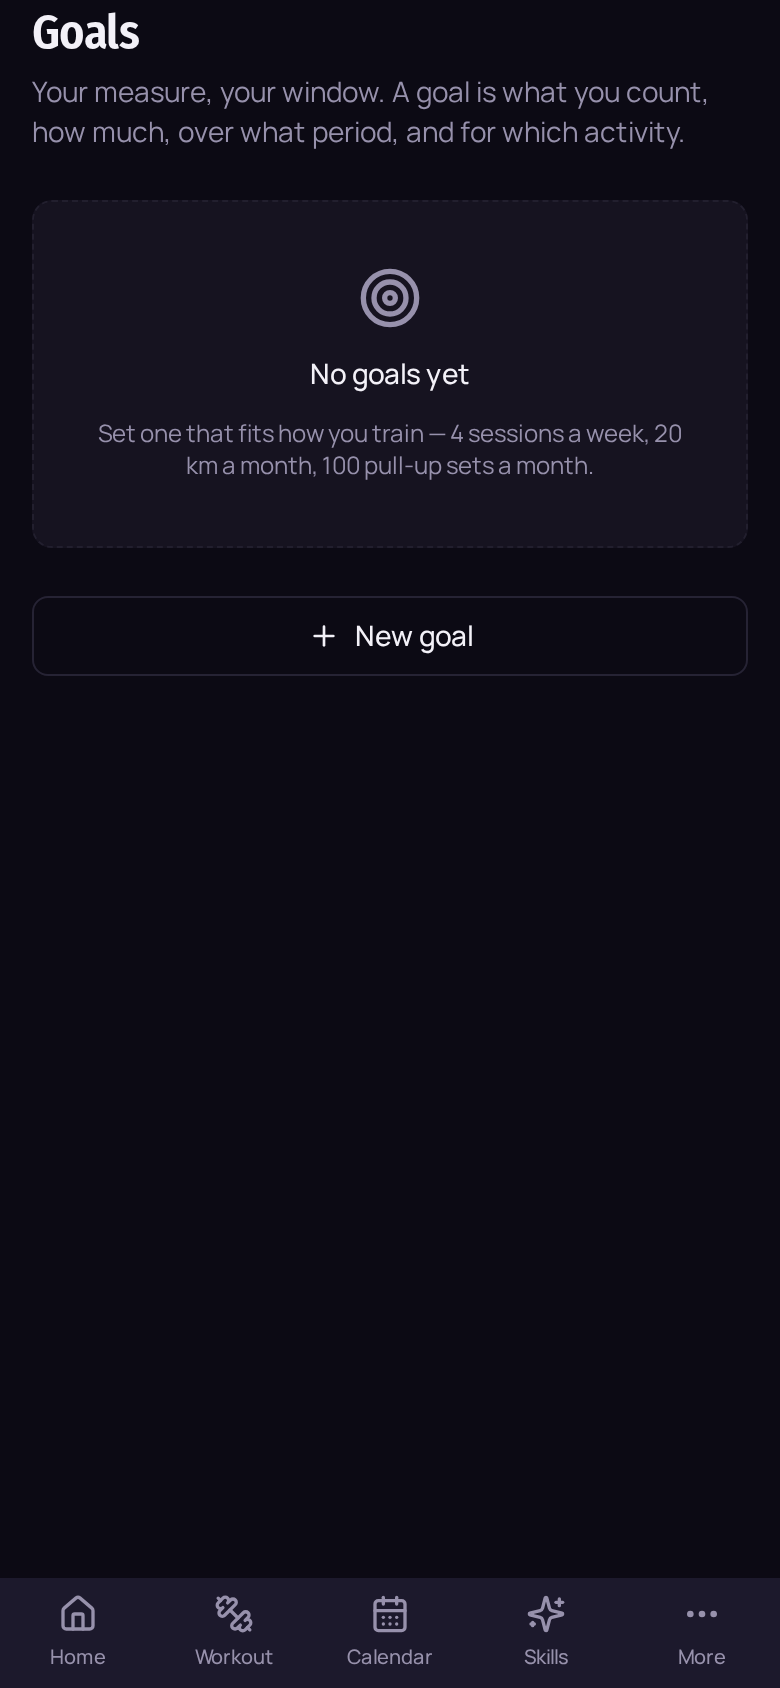
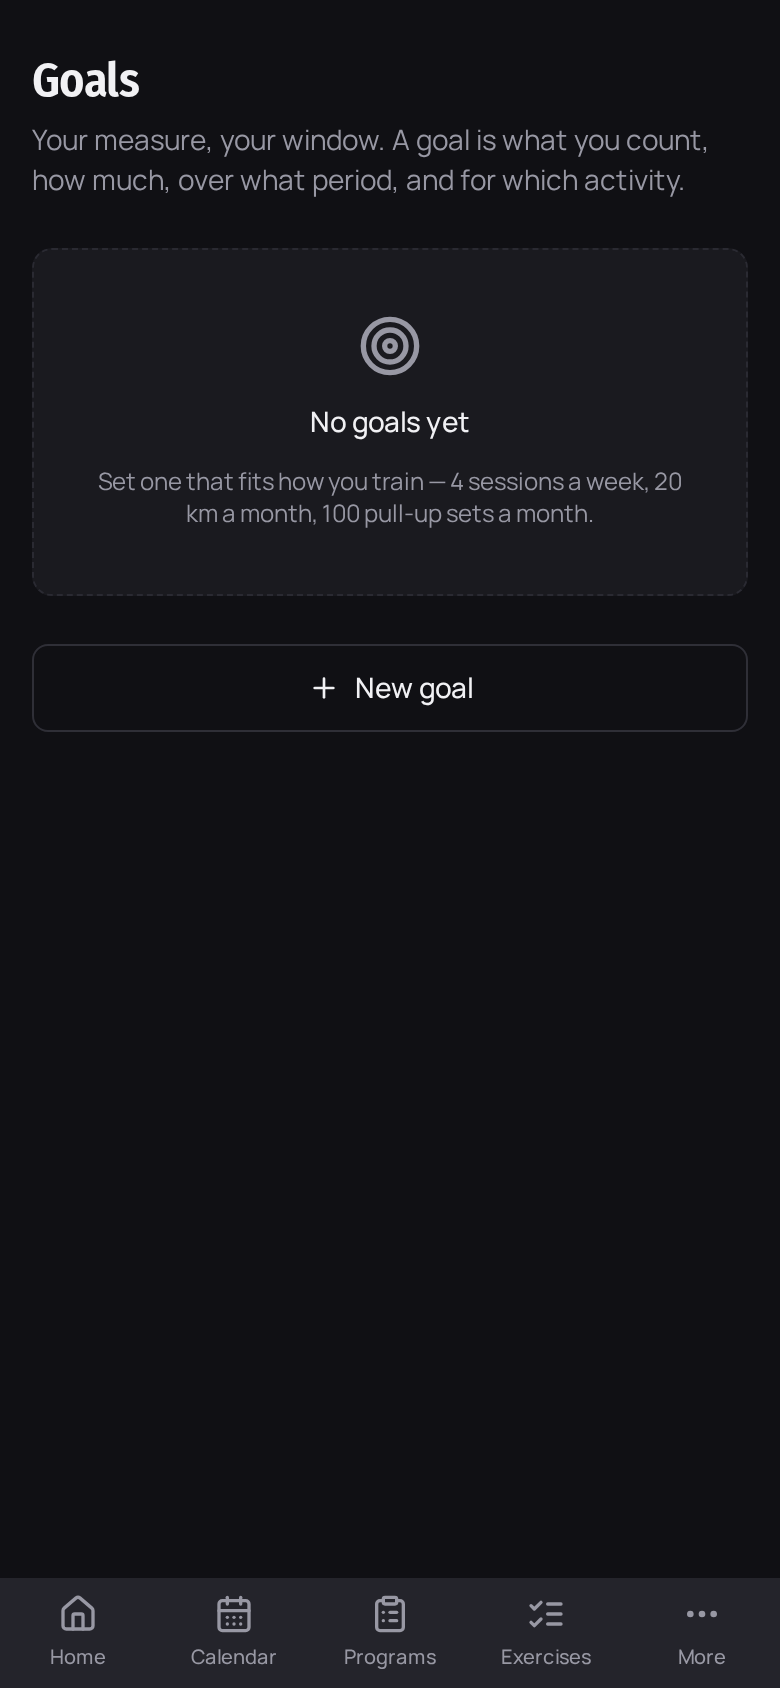
docs: fresh screenshots με το τρέχον polished UI (Settings reorg, empty states, skills)
Τα παλιά ήταν Αυγ 28 — πριν το Settings reorg, τα νέα empty states και όλο το
polish. Regenerated via scripts/shots.mjs (headless, 390×844, seeded). Νέο hero
collage: Dashboard (skill ladder + startFirst empty state) · Calendar · το 8-skill
catalogue · το reorganized Settings hub (Account/Device-profiles identity fix,
Training→kg μετά την αφαίρεση του rest timer).

Claude-Session: https://claude.ai/code/session_01PZVELMwxiPTcSvwMdo5csN

diff --git a/README.md b/README.md
@@ -14,7 +14,7 @@ Offline-first PWA · native desktop · optional accounts & sync · TypeScript st
 
 **[▶ Live demo](https://anabasis.axonos.dev)** · works offline, no signup required — an account is optional, only to sync across devices
 
-<img src="docs/screenshots/hero.png" alt="Dashboard, goals, workout and calendar screens" width="100%">
+<img src="docs/screenshots/hero.png" alt="Dashboard with skill ladder, calendar, the skill catalogue and the settings hub" width="100%">
 
 </div>
 
